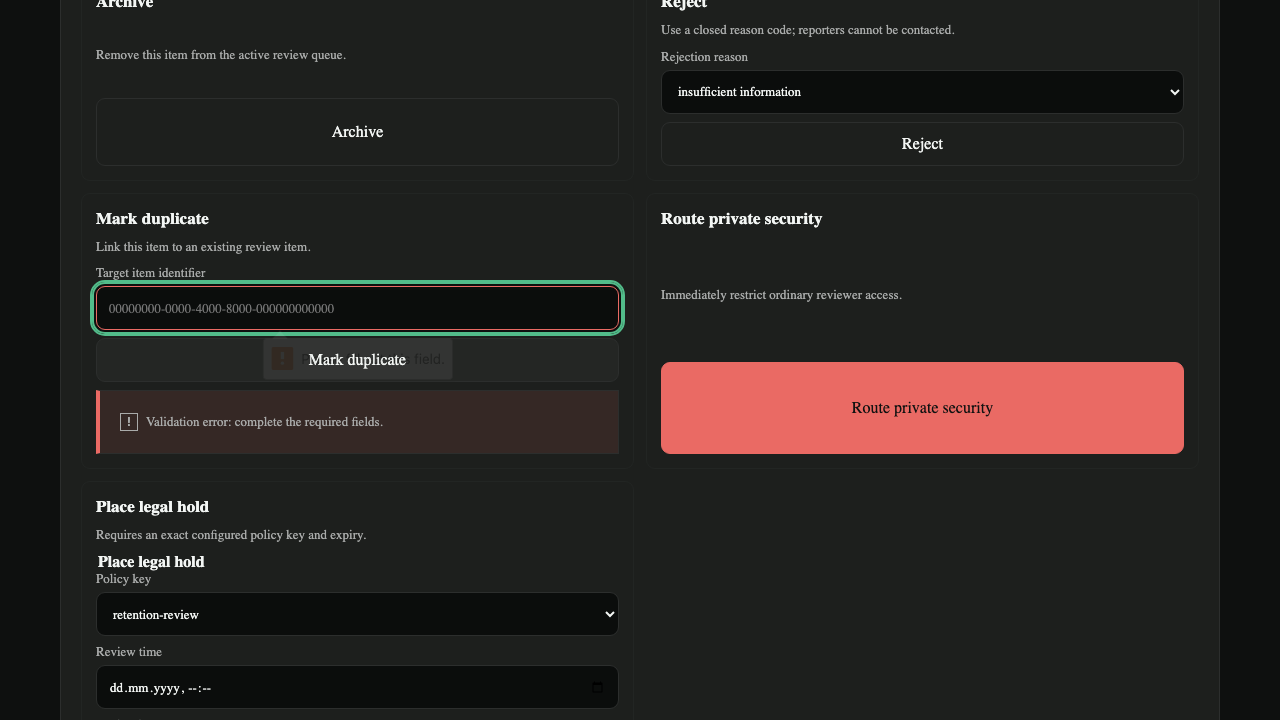
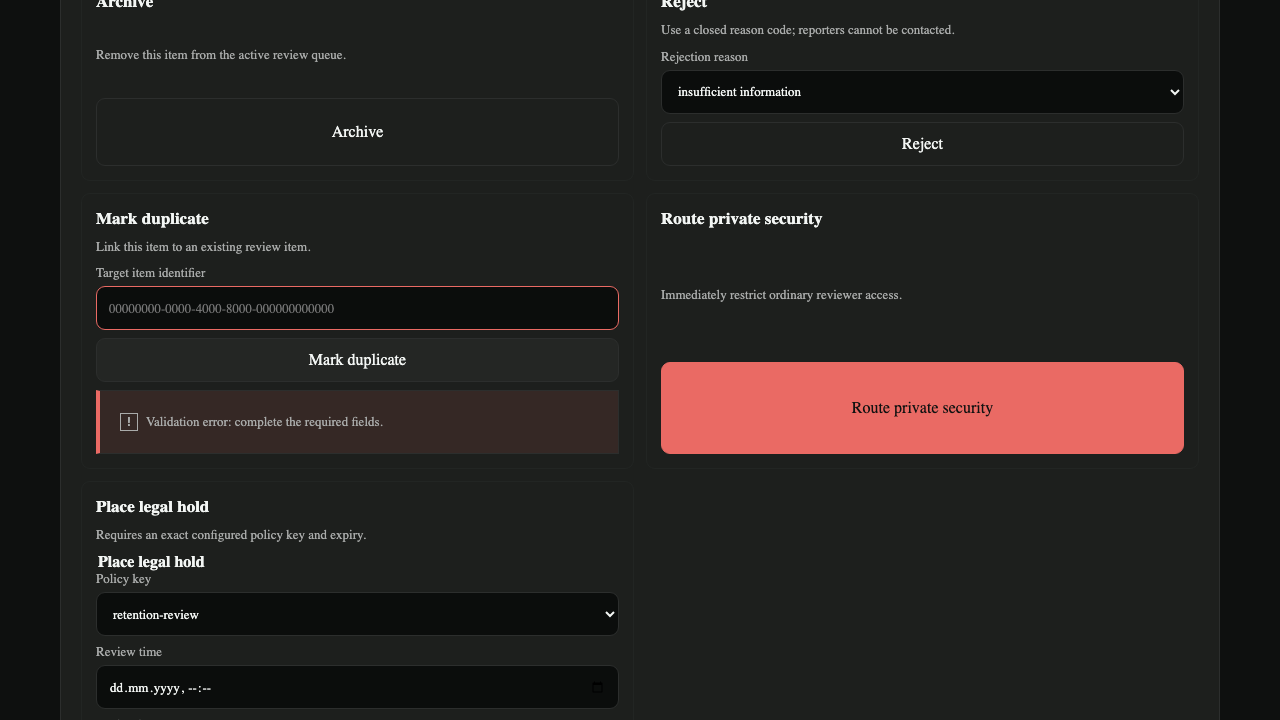
test(feedback): enforce deterministic UI evidence
Refs #2075

Changed region(s): [[0.0625, 0.3667, 0.4688, 0.4889], [0.4688, 0.3972, 0.5, 0.4583]]

diff --git a/tests/e2e/maintainer-review-2075.spec.ts b/tests/e2e/maintainer-review-2075.spec.ts
@@ -4,6 +4,7 @@ import { resolve } from "node:path";
 import { brotliCompressSync, gzipSync } from "node:zlib";
 import { expect, test, type Page, type Route } from "@playwright/test";
 import { installAxe, runAxe, seriousOrCritical } from "./support/axe.js";
+import { captureDeterministically, settleNativeValidation } from "./support/deterministic-screenshot.js";
 
 const evidence = resolve("docs/design-system/evidence/2075");
 const assetRoot = resolve("packages/keiko-feedback-intake/assets");
@@ -31,7 +32,6 @@ const item = {
   featureArea: "review",
   impact: "blocking",
 };
-
 const session = {
   permissions: ["feedback.review", "feedback.security", "feedback.legal-hold", "feedback.audit"],
   csrfToken: "csrf-token",
@@ -53,7 +53,7 @@ async function capture(page: Page, name: string): Promise<{ name: string; axeVio
     (window as unknown as { __cspViolations?: string[] }).__cspViolations = [];
   });
   expect(seriousOrCritical(violations), name).toEqual([]);
-  await page.screenshot({ path: resolve(evidence, `${name}.png`), animations: "disabled" });
+  await captureDeterministically(page, resolve(evidence, `${name}.png`), name);
   const proof = { name, axeViolations: violations.length };
   axeProofs.push(proof);
   return proof;
@@ -237,7 +237,7 @@ test("maintainer queue uses production assets, inert payload rendering, keyboard
   await capture(page, "01-dark-desktop-detail-xss");
   await page.getByRole("button", { name: "Mark duplicate" }).click();
   await expect(page.getByText("Validation error: complete the required fields.")).toBeVisible();
-  await page.keyboard.press("Escape");
+  await settleNativeValidation(page.getByLabel("Target item identifier"));
   await capture(page, "16-native-validation-error");
   await submitDuplicate(page, actions);
   await captureCanonicalModes(page);

diff --git a/tests/e2e/support/deterministic-screenshot.ts b/tests/e2e/support/deterministic-screenshot.ts
@@ -1,0 +1,28 @@
+import { createHash } from "node:crypto";
+import { expect, type Locator, type Page } from "@playwright/test";
+
+function sha256(value: Buffer): string {
+  return createHash("sha256").update(value).digest("hex");
+}
+
+export async function captureDeterministically(
+  page: Page,
+  path: string,
+  name: string,
+): Promise<void> {
+  const options = { animations: "disabled", caret: "hide" } as const;
+  const screenshot = await page.screenshot({ ...options, path });
+  const repeat = await page.screenshot(options);
+  expect(sha256(repeat), `${name} deterministic screenshot`).toBe(sha256(screenshot));
+}
+
+export async function settleNativeValidation(control: Locator): Promise<void> {
+  await expect(control).toBeFocused();
+  expect(
+    await control.evaluate(
+      (element: HTMLInputElement) => !element.validity.valid && element.matches(":user-invalid"),
+    ),
+  ).toBe(true);
+  await control.blur();
+  await expect(control).not.toBeFocused();
+}
